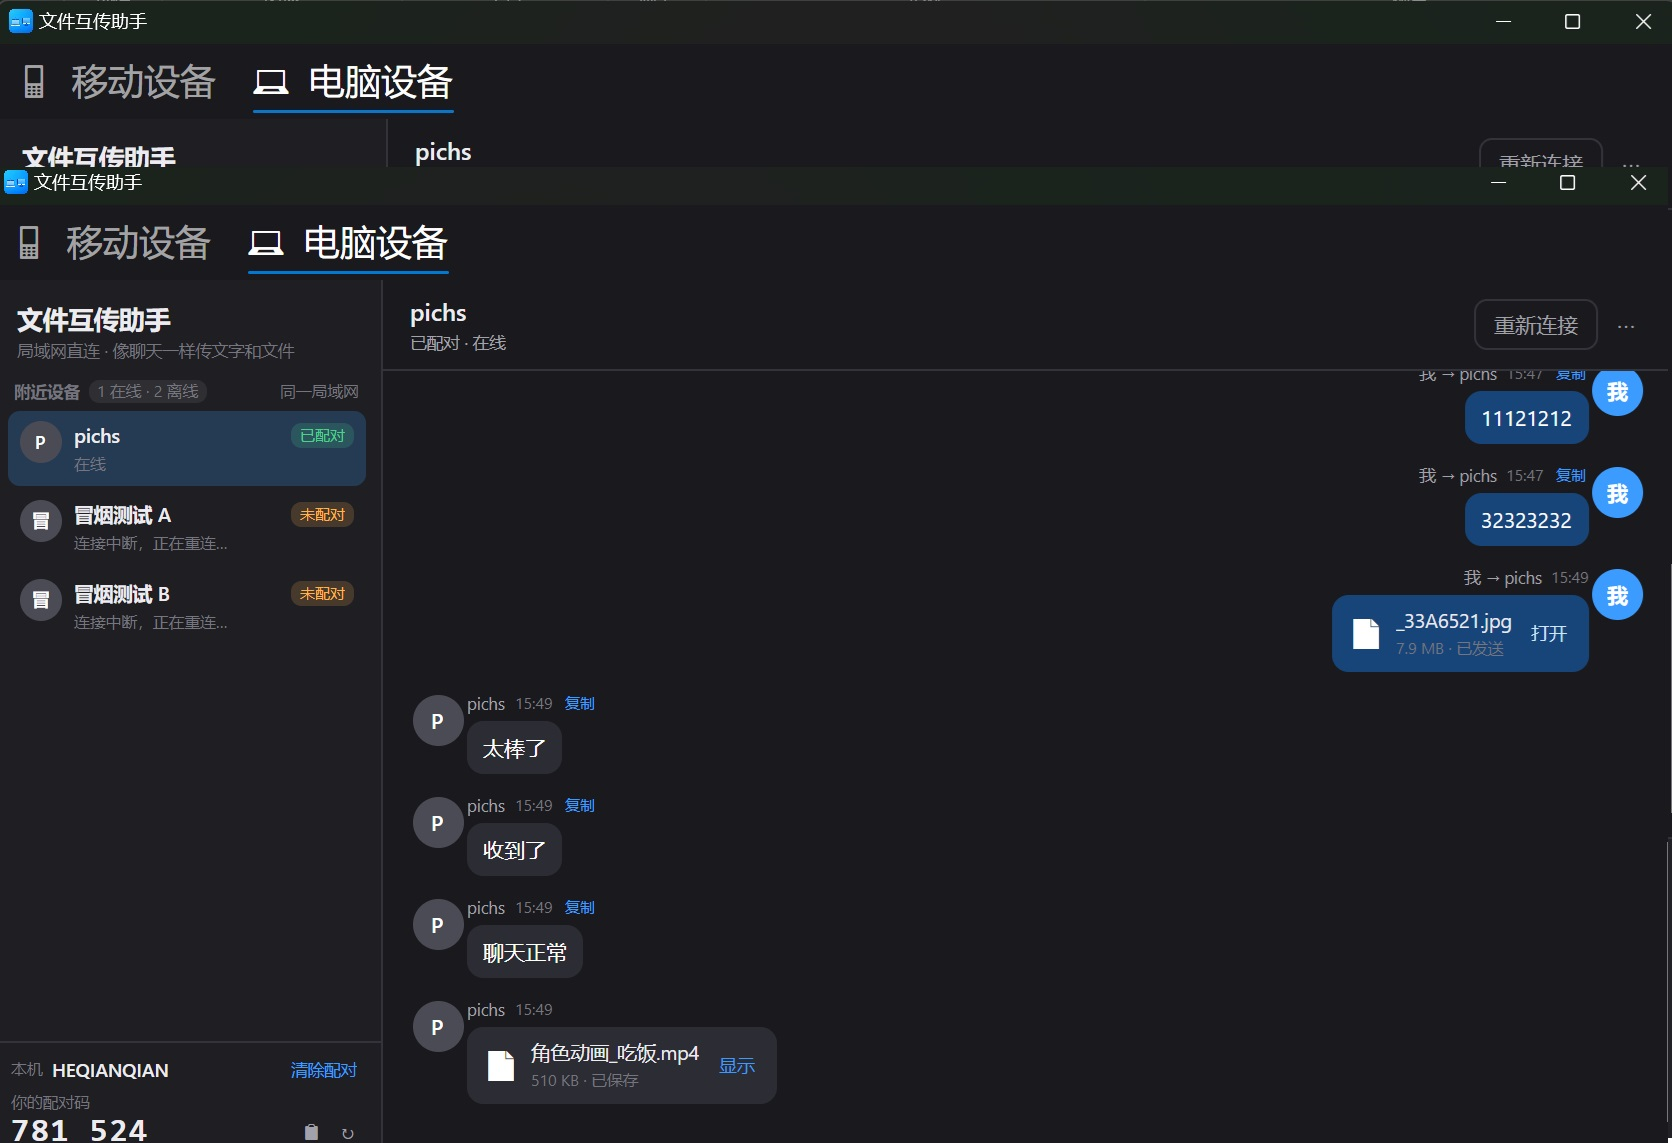
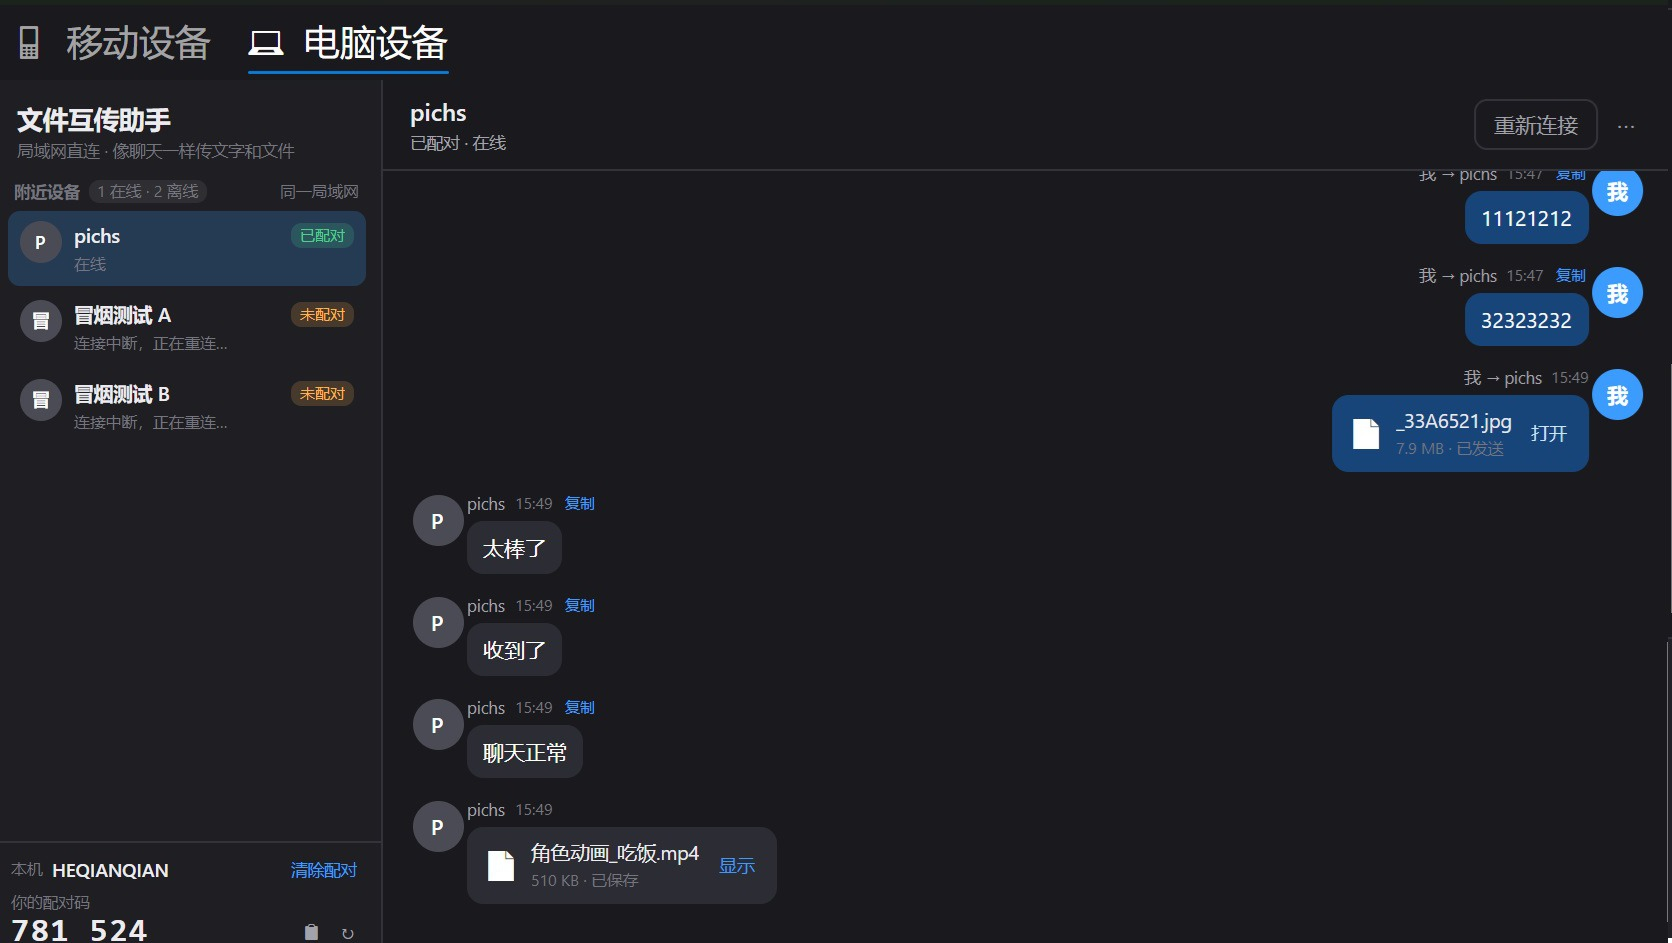
docs: use Windows offline/reconnect screenshot
- clean up the duplicated titlebar in win-pc2 and reference it from README/windows README/product overview

diff --git a/README.md b/README.md
@@ -64,7 +64,7 @@
 | --- | --- |
 | ![Windows 电脑设备](docs/screenshots/win-pc.jpg) | ![Windows 移动设备](docs/screenshots/win-home.jpg) |
 
-Windows 端同样会保留离线好友，并在状态栏显示「连接中断，正在重连…」。
+Windows 端同样会保留离线好友，并在状态栏显示「连接中断，正在重连…」：[离线好友截图](docs/screenshots/win-pc2.jpg)。
 
 ## 核心技术与亮点
 

diff --git a/windows/README.md b/windows/README.md
@@ -13,6 +13,10 @@ Windows 端的「文件互传助手」局域网传输应用：和 macOS 端（`m
 
 ![Windows 移动设备页](../docs/screenshots/win-home.jpg)
 
+离线好友仍保留，连接状态单独显示：
+
+![Windows 离线好友与重连](../docs/screenshots/win-pc2.jpg)
+
 ---
 
 ## 1. 目录结构
